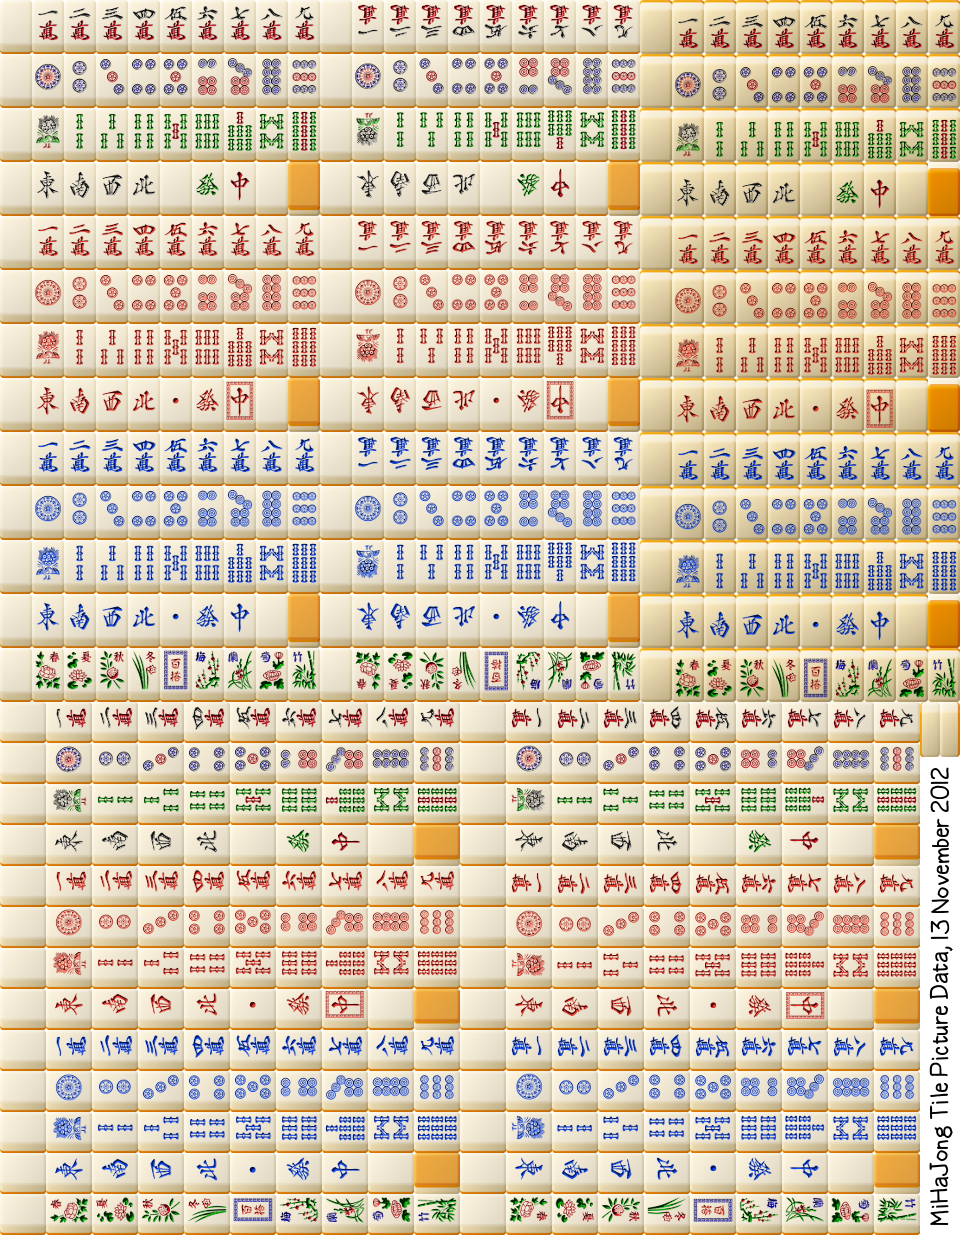
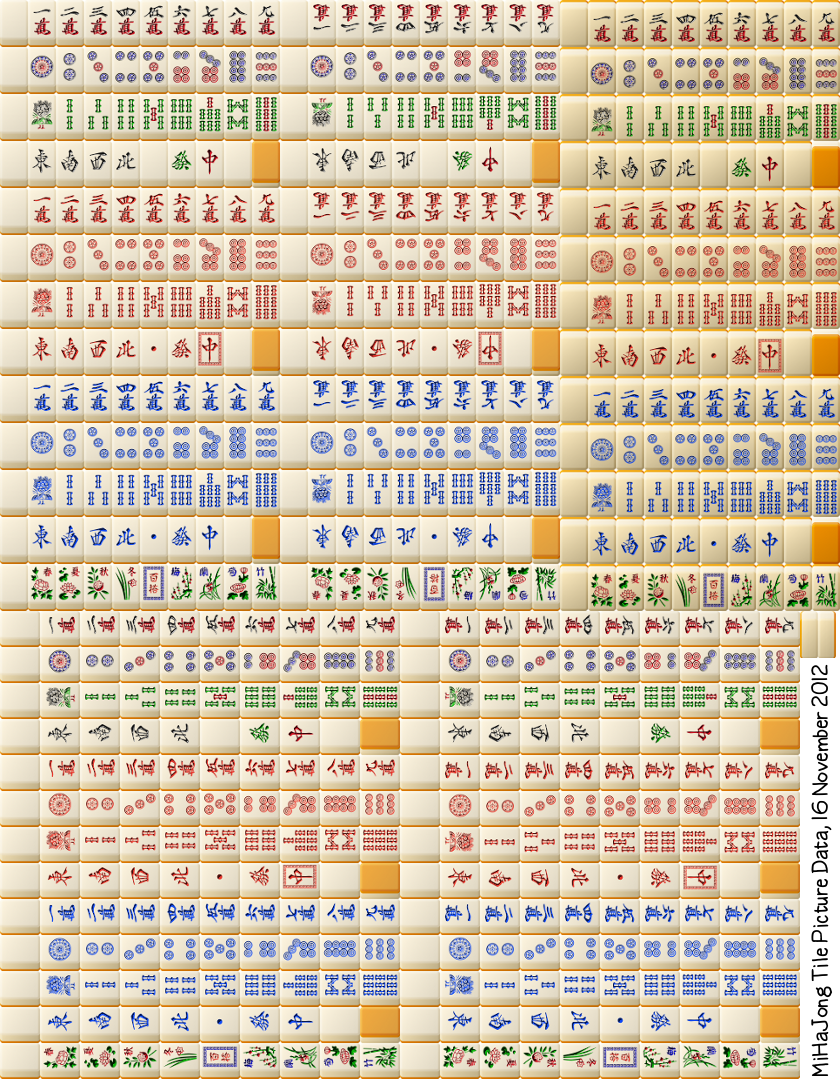
牌の画像をリサイズ
使用したスクリプト(Gimp内蔵Scheme)

(define (reduce-vert img drawable)
	(do ((j 0 (+ j 1))) ((>= j 13) TRUE)
		(do ((i 0 (+ i 1))) ((>= i 30) TRUE)
			(gimp-rect-select img (* i 32) (* j 54) 32 54 2 FALSE 0)
			(let
				(
					(layer (gimp-selection-float drawable 0 0))
				)
				(gimp-layer-scale (car layer) 28 47 TRUE)
				(gimp-layer-translate (car layer) (+ -2 (* i -4)) (+ -3 (* j -7)))
				(gimp-floating-sel-anchor (car layer))
			)
		)
	)
	(gimp-selection-none img)
)
(define (reduce-horiz img drawable)
	(do ((j 0 (+ j 1))) ((>= j 13) TRUE)
		(do ((i 0 (+ i 1))) ((>= i 20) TRUE)
			(gimp-rect-select img (* i 46) (+ (* j 41) 702) 46 41 2 FALSE 0)
			(let
				(
					(layer (gimp-selection-float drawable 0 0))
				)
				(gimp-layer-scale (car layer) 40 36 TRUE)
				(gimp-layer-translate (car layer) (+ -3 (* i -6)) (+ -93 (* j -5)))
				(gimp-floating-sel-anchor (car layer))
			)
		)
	)
	(gimp-selection-none img)
)
(define (reduce-side img drawable)
	(do ((i 0 (+ i 1))) ((>= i 2) TRUE)
		(gimp-rect-select img (+ (* i 20) 920) 702 20 54 2 FALSE 0)
		(let
			(
				(layer (gimp-selection-float drawable 0 0))
			)
			(gimp-layer-scale (car layer) 18 47 TRUE)
			(gimp-layer-translate (car layer) (+ -121 (* i -2)) -94)
			(gimp-floating-sel-anchor (car layer))
		)
	)
	(gimp-selection-none img)
)
(define (clear-right-down img drawable)
	(gimp-rect-select img 920 756 40 478 2 FALSE 0)
	(let
		(
			(layer (gimp-selection-float drawable 0 0))
		)
		(gimp-floating-sel-remove (car layer))
	)
[…]

diff --git a/graphic/scenes/table.cpp b/graphic/scenes/table.cpp
@@ -6,20 +6,20 @@ GameTableScreen::GameTableScreen(ScreenManipulator* const manipulator) : TablePr
 	LoadTexture(&tBorder, MAKEINTRESOURCE(IDB_PNG_TBLBORDER), 768, 768); InitSprite(&sBorder);
 	LoadTexture(&tBaize, MAKEINTRESOURCE(IDB_PNG_TBLBAIZE), 674, 674); InitSprite(&sBaize);
 	for (int i = 2; i < 36; i += 2) {
-		TileTexture->NewTile(i  , BambooOne, Normal, 96 + 32*(i/2), 88, UpsideDown, Reverse);
-		TileTexture->NewTile(i+1, BambooOne, Normal, 96 + 32*(i/2), 77, UpsideDown, Reverse);
+		TileTexture->NewTile(i  , BambooOne, Normal, 96 + ShowTile::VertTileWidth*(i/2), 88, UpsideDown, Reverse);
+		TileTexture->NewTile(i+1, BambooOne, Normal, 96 + ShowTile::VertTileWidth*(i/2), 77, UpsideDown, Reverse);
 	}
 	for (int i = 0; i < 34; i += 2) {
-		TileTexture->NewTile(36+i  , BambooOne, Normal, 103, 127 + 32*(i/2), Clockwise, Reverse);
-		TileTexture->NewTile(36+i+1, BambooOne, Normal, 103, 116 + 32*(i/2), Clockwise, Reverse);
+		TileTexture->NewTile(36+i  , BambooOne, Normal, 103, 127 + ShowTile::VertTileWidth*(i/2), Clockwise, Reverse);
+		TileTexture->NewTile(36+i+1, BambooOne, Normal, 103, 116 + ShowTile::VertTileWidth*(i/2), Clockwise, Reverse);
 	}
 	for (int i = 2; i < 36; i += 2) {
-		TileTexture->NewTile(72+i  , BambooOne, Normal, 679, 81 + 32*(i/2), Clockwise, Reverse);
-		TileTexture->NewTile(72+i+1, BambooOne, Normal, 679, 70 + 32*(i/2), Clockwise, Reverse);
+		TileTexture->NewTile(72+i  , BambooOne, Normal, 679, 81 + ShowTile::VertTileWidth*(i/2), Clockwise, Reverse);
+		TileTexture->NewTile(72+i+1, BambooOne, Normal, 679, 70 + ShowTile::VertTileWidth*(i/2), Clockwise, Reverse);
 	}
 	for (int i = 0; i < 34; i += 2) {
-		TileTexture->NewTile(108+i  , BambooOne, Normal, 142 + 32*(i/2), 665, UpsideDown, Reverse);
-		TileTexture->NewTile(108+i+1, BambooOne, Normal, 142 + 32*(i/2), 654, UpsideDown, Reverse);
+		TileTexture->NewTile(108+i  , BambooOne, Normal, 142 + ShowTile::VertTileWidth*(i/2), 665, UpsideDown, Reverse);
+		TileTexture->NewTile(108+i+1, BambooOne, Normal, 142 + ShowTile::VertTileWidth*(i/2), 654, UpsideDown, Reverse);
 	}
 }
 

diff --git a/graphic/showtile.h b/graphic/showtile.h
@@ -12,17 +12,18 @@ enum TileSide {Obverse, Upright, Reverse,};
 enum TileDirection {Portrait, Withershins, UpsideDown, Clockwise,};
 
 class ShowTile {
-private:
-	static const unsigned int TextureWidth   = 960;
-	static const unsigned int TextureHeight  = 1235;
-	static const unsigned int VertTileWidth  = 32;
-	static const unsigned int VertTileHeight = 54;
-	static const unsigned int SideTileWidth  = 20;
+public:
+	static const unsigned int TextureWidth   = 840;
+	static const unsigned int TextureHeight  = 1079;
+	static const unsigned int VertTileWidth  = 28;
+	static const unsigned int VertTileHeight = 47;
+	static const unsigned int SideTileWidth  = 18;
 	static const unsigned int SideTileHeight = VertTileHeight;
-	static const unsigned int HoriTileWidth  = 46;
-	static const unsigned int HoriTileHeight = 41;
+	static const unsigned int HoriTileWidth  = 40;
+	static const unsigned int HoriTileHeight = 36;
 	static const unsigned int TileCols = 10;
 	static const unsigned int TileRows = 13;
+private:
 	struct TileDescriptor;
 	LPDIRECT3DDEVICE9 myDevice;
 	LPDIRECT3DTEXTURE9 TileTexture;
